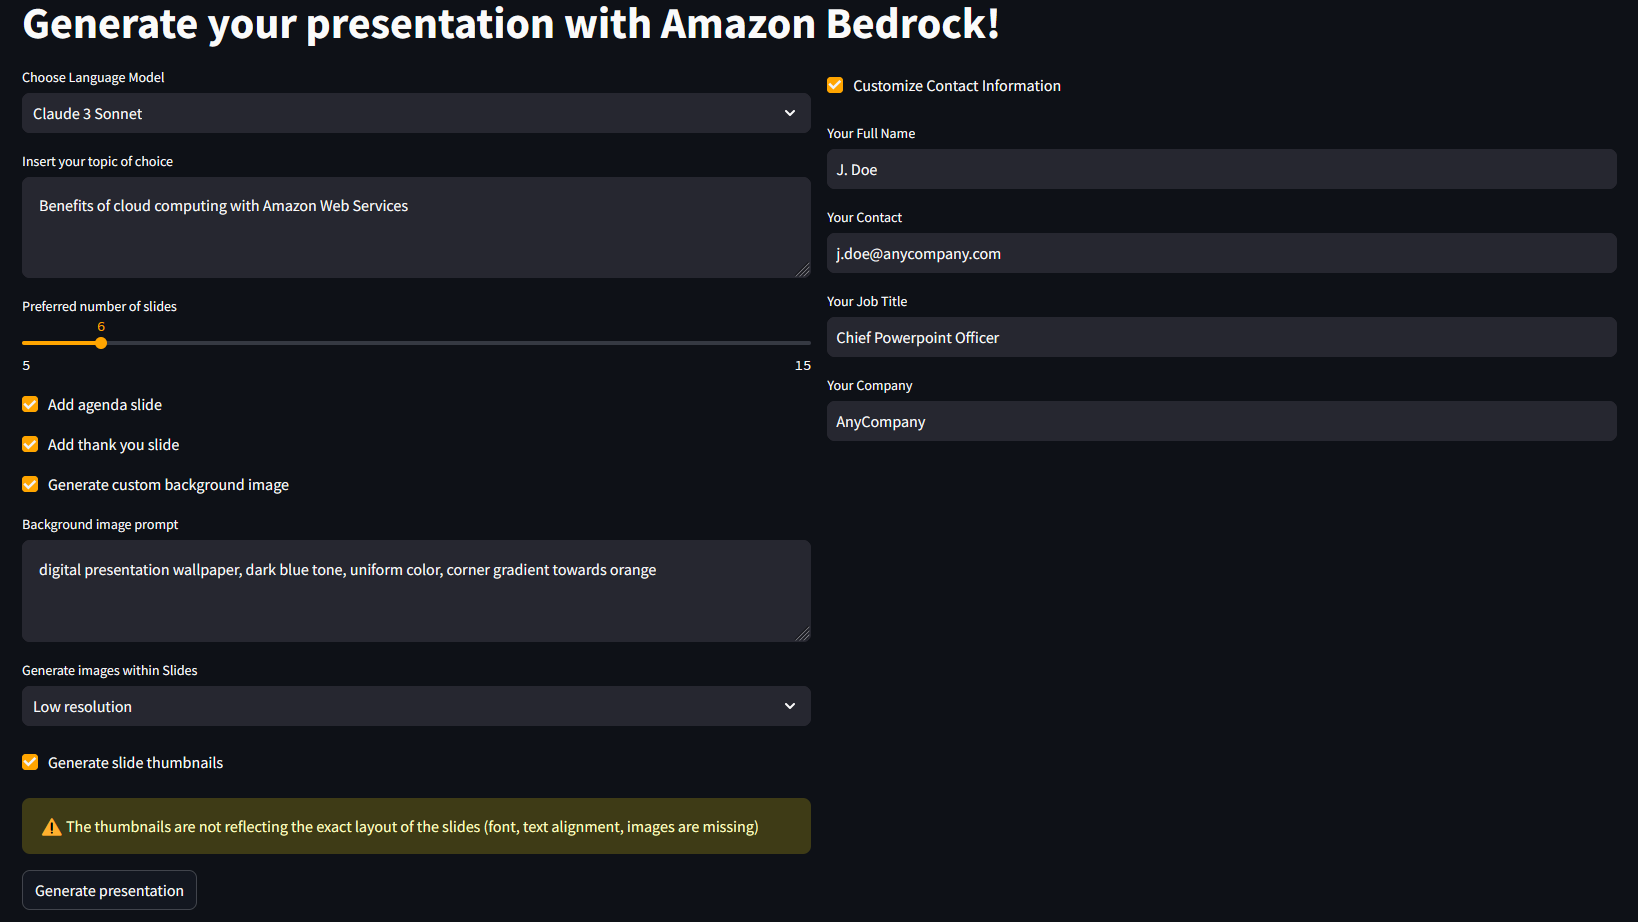
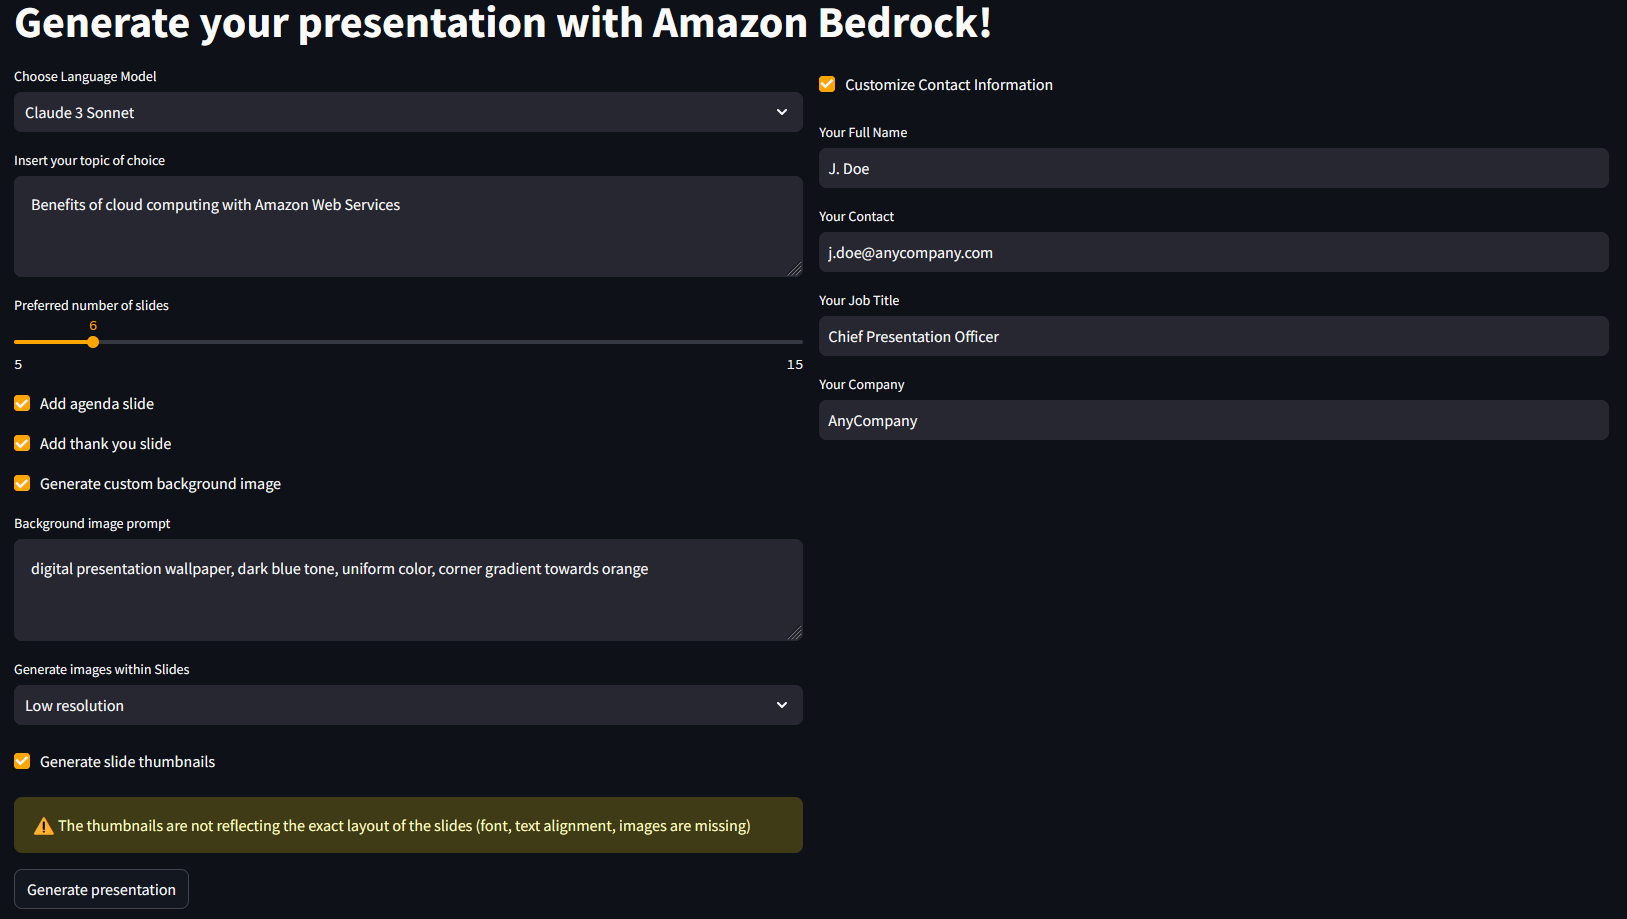
update wording

diff --git a/pptx-generator.py b/pptx-generator.py
@@ -100,7 +100,7 @@ if not st.session_state.get("your_full_name"):
 if not st.session_state.get("your_contact_info"):
     st.session_state["your_contact_info"] = "j.doe@anycompany.com"
 if not st.session_state.get("your_title"):
-    st.session_state["your_title"] = "Chief Powerpoint Officer"
+    st.session_state["your_title"] = "Chief Presentation Officer"
 if not st.session_state.get("your_company"):
     st.session_state["your_company"] = "AnyCompany"
 
